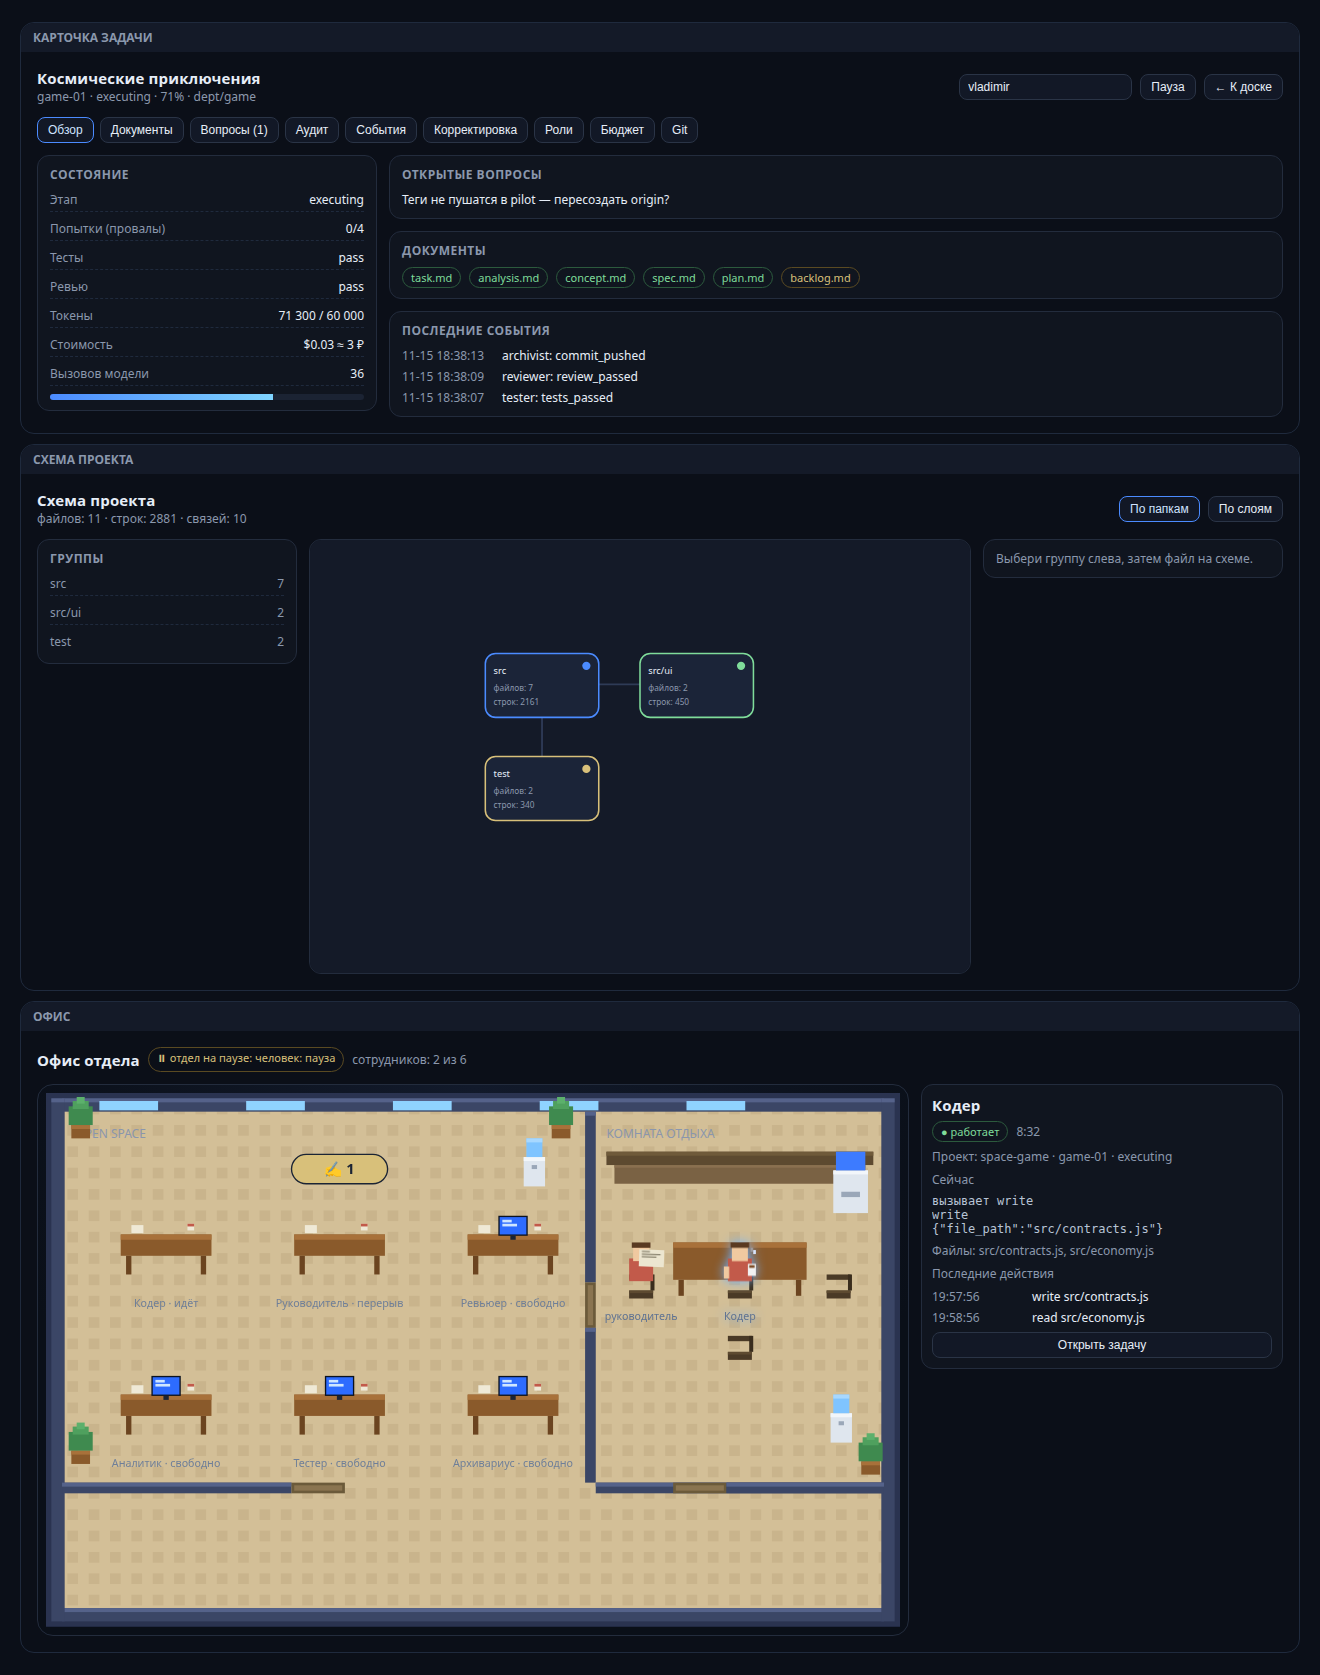
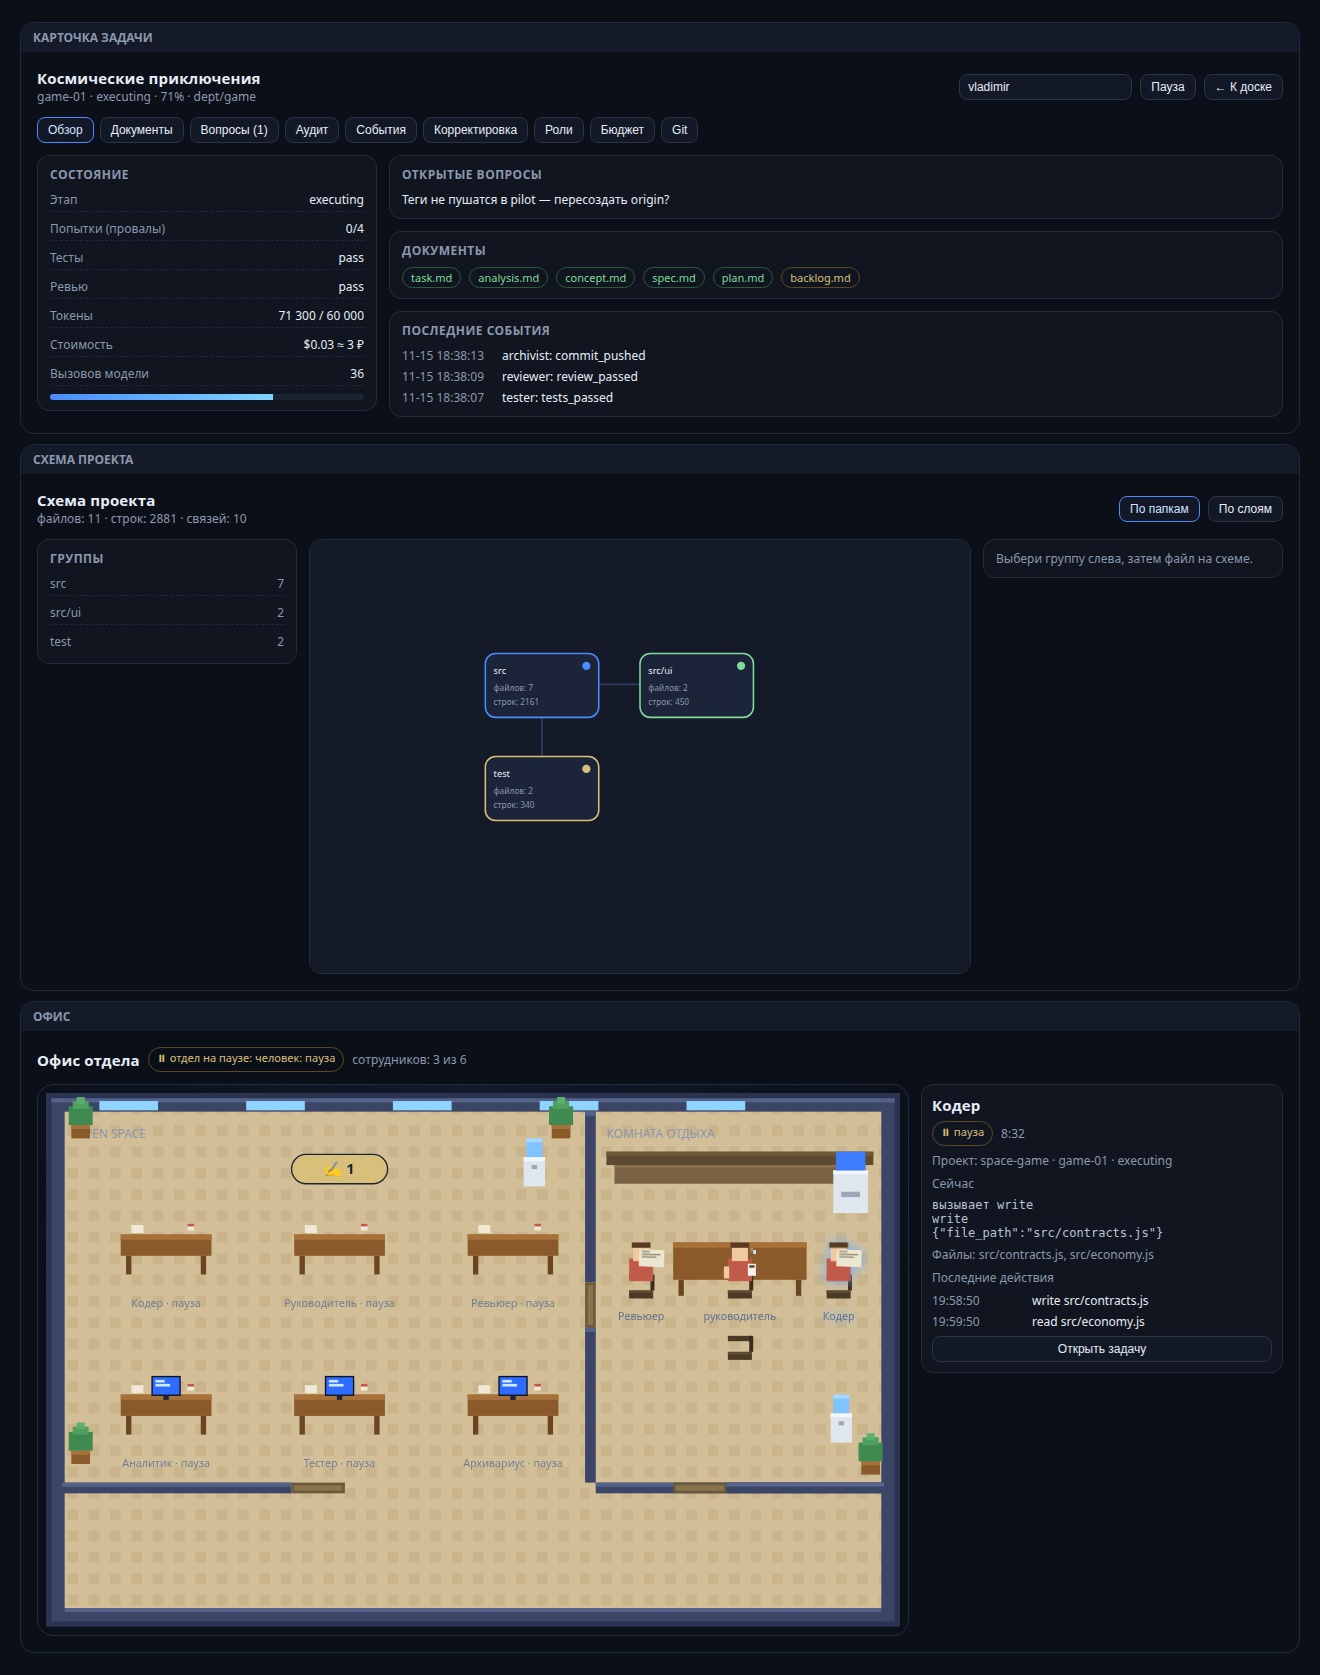
feat(department): на паузе все задействованные сидят в комнате отдыха, статус «пауза»

diff --git a/client.js b/client.js
@@ -287,7 +287,7 @@ window.__ModuleLoader__.load({
         const matches = text.match(/[\w./-]+\.(?:js|mjs|md|json|html|css)/g) ?? []
         return [...new Set(matches.map((file) => file.replace(/^\.\//, '')))].slice(0, 8)
       }
-      const chairSeats = [{ x: 446, y: 152 }, { x: 520, y: 152 }, { x: 594, y: 152 }, { x: 520, y: 198 }]
+      const chairSeats = [{ x: 446, y: 152 }, { x: 520, y: 152 }, { x: 594, y: 152 }, { x: 446, y: 198 }, { x: 520, y: 198 }, { x: 594, y: 198 }]
       const coolerSpot = { x: 570, y: 252 }
       const windowSpot = { x: 466, y: 66 }
       const loungeTargets = [...chairSeats.map((seat, index) => ({ kind: 'seat', spot: seat, index })), { kind: 'cooler', spot: coolerSpot }, { kind: 'window', spot: windowSpot }]
@@ -557,7 +557,7 @@ window.__ModuleLoader__.load({
               ? [
                   h('div', { className: 'dept-title' }, selectedEntry.kind === 'менеджер' ? 'Руководитель' : (DESKS.find((desk) => desk.key === (assignments.current.get(selectedEntry.sessionId) ?? inferRole(selectedEntry)))?.label ?? 'Агент')),
                   h('div', { className: 'dept-row' },
-                    h('span', { className: selectedEntry.busy ? 'dept-badge ok' : 'dept-badge wait' }, selectedEntry.busy ? '● работает' : '○ перерыв'),
+                    h('span', { className: (selectedEntry.busy && !paused) ? 'dept-badge ok' : 'dept-badge wait' }, paused ? '⏸ пауза' : selectedEntry.busy ? '● работает' : '○ перерыв'),
                     h('span', { className: 'dept-sub' }, formatElapsed(selectedEntry.elapsedMs))),
                   h('div', { className: 'dept-sub' }, 'Проект: ' + projectName(selectedEntry.cwd) + (selectedTask ? ' · ' + selectedTask.taskId + ' · ' + selectedTask.stage : '')),
                   h('div', { className: 'dept-sub' }, 'Сейчас'),

diff --git a/tools/ui-preview/index.html b/tools/ui-preview/index.html
@@ -42,6 +42,7 @@ const detail = {
   tags: ['stage-1', 'stage-2', 'stage-3', 'stage-4', 'stage-5', 'stage-6'],
 };
 const activity = { activity: [
+  { sessionId: 's3', cwd: '/home/agent/work/projects/space-game', kind: 'субагент', busy: true, lastAction: 'вызывает read', tool: 'read', args: '{"file_path":"src/main.js"}', elapsedMs: 300000, usage: { inputTokens: 5000, outputTokens: 800, calls: 4 }, recent: [{ ts: Date.now() - 20000, text: 'read src/main.js' }] },
   { sessionId: 's1', cwd: '/home/agent/work/projects/space-game', kind: 'менеджер', busy: false, lastAction: 'думает (шаг модели)', tool: 'subagent', args: '{"description":"Кодер этапа 5"}', elapsedMs: 4200, usage: { inputTokens: 21000, outputTokens: 3200, calls: 14 }, recent: [{ ts: Date.now() - 60000, text: 'прочитал plan.md' }, { ts: Date.now() - 30000, text: 'запустил кодера' }] },
   { sessionId: 's2', cwd: '/home/agent/work/projects/space-game', kind: 'субагент', busy: true, lastAction: 'вызывает write', tool: 'write', args: '{"file_path":"src/contracts.js"}', elapsedMs: 512000, usage: { inputTokens: 38000, outputTokens: 9100, calls: 22 }, recent: [{ ts: Date.now() - 90000, text: 'write src/contracts.js' }, { ts: Date.now() - 30000, text: 'read src/economy.js' }] },
 ]};
